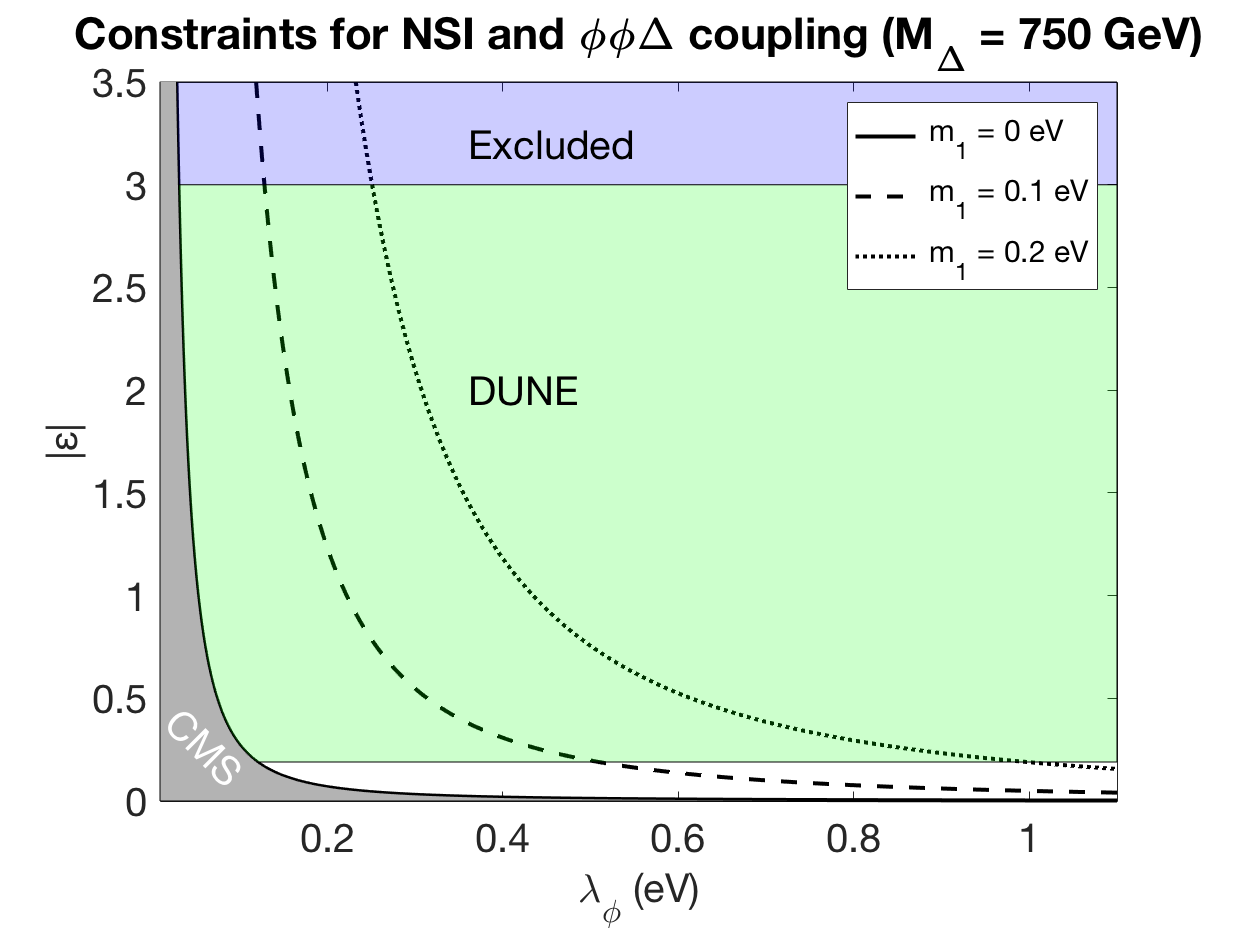
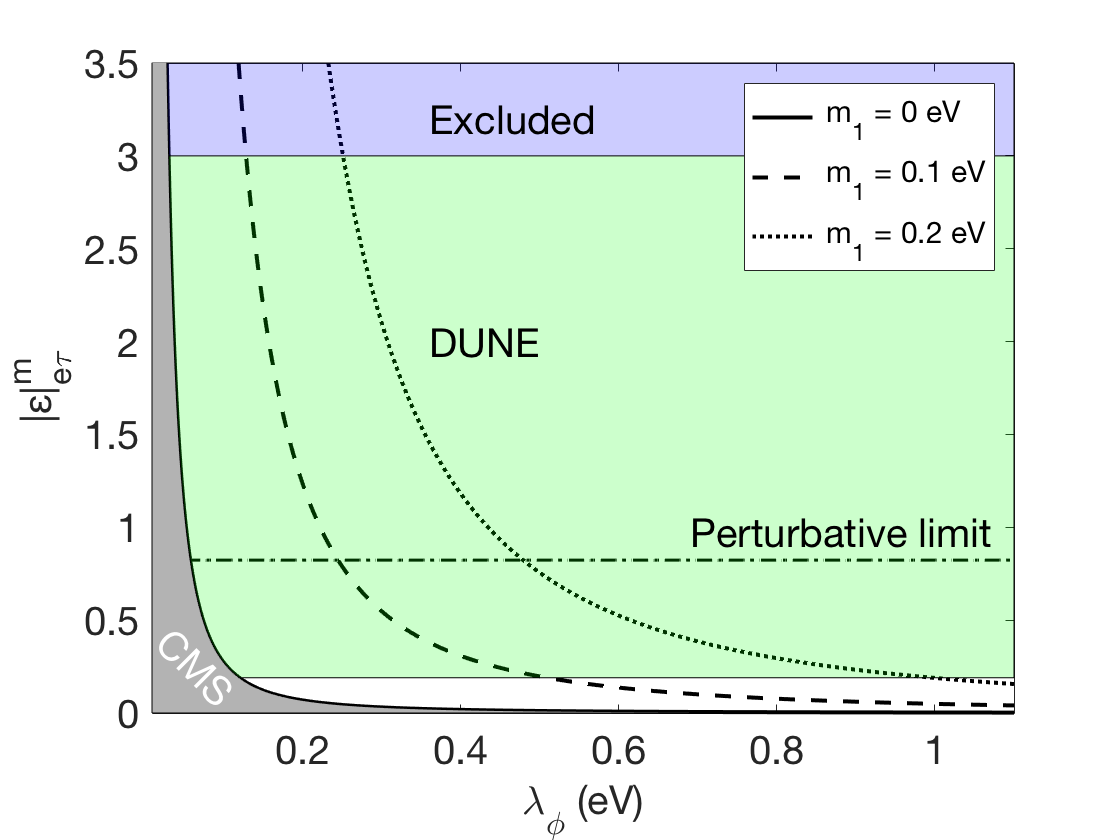
Pieniä muutoksia ja lisäyksiä

diff --git a/LambdaPhiLimit2.m b/LambdaPhiLimit2.m
@@ -1,7 +1,7 @@
 % INITIALIZATION
 clear;
 logscale = false;
-nh=true; m1=0; fs = 20; k = 0;
+nh=false; m1=0; fs = 20; k = 0;
 mDelta = 0.75e12;
 m1range = 0:0.1:0.2;
 
@@ -10,7 +10,7 @@ lambdaRange = 0.01:0.001:1.1;
 values = zeros(length(m1range),length(lambdaRange));
 
 e = 1; mu = 2;
-alpha = 1; beta = 3;    % We look for the limit eps_m(e,e)
+alpha = 1; beta = 3;    % We look for the limit eps_m(e,tau)
 ne = 7.645e-18*1.0e27;  % In eV^3
 Gf = 1.1664e-5*1.0e-18; % Fermi constant in eV^-2
 Enu = 2.0e9; 		    % Neutrino energy in eV    
@@ -99,7 +99,7 @@ plot(lambdaRange, values(1,:),'-k','LineWidth',2);
 hold on;
 plot(lambdaRange, values(2,:),'--k','LineWidth',2);
 plot(lambdaRange, values(3,:),':k','LineWidth',2);
-
+plot(lambdaRange, 0.823*ones(1,length(lambdaRange)),'-.k','LineWidth',1);
 
 set(gca,'FontSize',fs);
 %ylim([-1 1]); % log-eps
@@ -109,11 +109,11 @@ if logscale
     ylabel(['log_{10}|' char(949) '|'],'FontSize',fs);    
 else
     ylim([0 3.5]); % linear-eps
-    ylabel(['|' char(949) '|'],'FontSize',fs);
+    ylabel(['|' char(949) '|^m_{e\tau}'],'FontSize',fs);
 end
 %legend('{\fontsize{15} 1 TeV}','{\fontsize{15} 2 TeV}','{\fontsize{15} 5 TeV}','{\fontsize{15} 10 TeV}','{\fontsize{15} 20 TeV}','{\fontsize{15} 50 TeV}','Location','NorthEast');
 legend('{\fontsize{15} m_{1} = 0 eV}','{\fontsize{15} m_{1} = 0.1 eV}','{\fontsize{15} m_{1} = 0.2 eV}','Location','NorthEast');
-title('Constraints for NSI and \phi\phi\Delta coupling (M_\Delta = 750 GeV)');
+%title('Constraints for NSI and \phi\phi\Delta coupling (M_\Delta = 750 GeV)');
 
 if logscale
     y1 = ones(1,length(lambdaRange))*log10(eps(alpha,beta));
@@ -142,6 +142,7 @@ h=fill(X,Y,'g');
 set(h,'facealpha',.2)
 text(1.2*xm,3.2,'Excluded','FontSize',fs)
 text(1.2*xm,2.0,'DUNE','FontSize',fs)
+text(2.3*xm,0.823+0.15,'Perturbative limit','FontSize',fs);
 
 % CMS Exclusion
 area(lambdaRange,[values(1,1) values(1,:)],'FaceColor',[0.7 0.7 0.7]); % Grey fill

diff --git a/Yukawa2.m b/Yukawa2.m
@@ -1,0 +1,53 @@
+% Non-unitarity project
+% (C) Timo Karkkainen 2017 (last modified 10.10.17)
+clear;
+fs=20; % Font size for the plots
+Gf = 1.1664e-5*1.0e-18; % Fermi constant in eV^-2
+% Values from 0907.0097 (Blennow-Fernandez-Martinez) Model-independent NSI
+% (Experimental limits)
+eps_ee = 4.2;
+eps_emu = 0.3;
+eps_etau = 3.0;
+eps_mutau = 0.04;
+eps_tautau = 0.15;
+eps_all = [eps_ee eps_emu eps_etau eps_mutau eps_tautau];
+
+Ymax = 3.5449; % Raja ei-perturbatiivisuudelle: sqrt(4*pi) = 3.5449...
+Yrange = 0.01:0.01:4;
+M = zeros(1,length(Yrange));
+figure; hold on;
+for eps=eps_all
+    j=1;
+    for Y=Yrange
+        M(j) = Y/(8*Gf^2*eps^2)^(1/4);
+        if(eps == eps_ee || eps == eps_tautau)
+           M(j) = M(j)*sqrt(2); 
+        end
+        j=j+1;
+    end
+    plot(Yrange,M*1e-12);
+    fprintf('Upper limit for triplet mass: %.2f TeV\n', M(354)*1e-12);
+    %plot(Yrange,M*1e-12,'-r','LineWidth',2);
+end
+set(gca,'FontSize',fs);
+
+y1 = ones(1,length(Yrange))*0.75;
+yl = ylim; % Minimum and maximum value of y-axis
+xl = xlim; % and x
+xm = (xl(1)+xl(2))/2; % middle value of x-axis
+xm = 0.5*xm;
+yupper = ones(1,length(Yrange))*0;
+Yrange = [(2*Yrange(1) - Yrange(2)) Yrange];
+X=[Yrange,fliplr(Yrange)];
+Y=[y1,y1(1),yupper(1),fliplr(yupper)];
+h=fill(X,Y,'b');
+set(h,'facealpha',.2)
+
+
+legend('{\fontsize{15} ee-\mu\mu}','{\fontsize{15} e\mu}','{\fontsize{15} e\tau}','{\fontsize{15} \mu\tau}','{\fontsize{15} \tau\tau}','Location','NorthEast');
+xlabel('Y_{\alpha\beta}','FontSize',fs);
+ylabel('M_{\Delta} (TeV)','FontSize',fs);
+title('Triplet mass as a function of Yukawa coupling','FontSize',fs);
+
+%ylim([1e9 1e10])
+%xlim([0 1])

diff --git a/Yukawa.m b/Yukawa.m
@@ -1,0 +1,38 @@
+% Non-unitarity project
+% (C) Timo Karkkainen 2017 (last modified 10.10.17)
+clear;
+fs=20; % Font size for the plots
+Gf = 1.1664e-5*1.0e-18; % Fermi constant in eV^-2
+% Values from 0907.0097 (Blennow-Fernandez-Martinez) Model-independent NSI
+% (Experimental limits)
+eps_1211 = 3.5e-7;
+eps_1311 = 1.4e-4;
+eps_2322 = 1.2e-4;
+eps_1312 = 1.0e-4;
+eps_2321 = 1.0e-4;
+eps_1322 = 1.0e-4;
+eps_1321 = 9.9e-5;
+eps_all = [eps_1211 eps_1311 eps_2322 eps_1312 eps_2321 eps_1322 eps_1321];
+
+Ymax = 3.54; % Raja ei-perturbatiivisuudelle: sqrt(4*pi) = 3.5449...
+Yrange = 0.01:0.01:4;
+M = zeros(1,length(Yrange));
+figure; hold on;
+eps=eps_1211;
+for eps=eps_all
+    j=1;
+    for Y=Yrange
+        M(j) = Y/(8*Gf^2*eps^2)^(1/4);
+        j=j+1;
+    end
+    plot(Yrange,M*1e-12);
+    fprintf('Upper limit for triplet mass: %.2f TeV\n', M(354)*1e-12);
+    %plot(Yrange,M*1e-12,'-r','LineWidth',2);
+end
+set(gca,'FontSize',fs);
+xlabel('Y_{\alpha\beta}','FontSize',fs);
+ylabel('M_{\Delta} (TeV)','FontSize',fs);
+title(['Triplet mass as a function of Yukwawa coupling'],'FontSize',fs);
+
+%ylim([1e9 1e10])
+%xlim([0 1])
